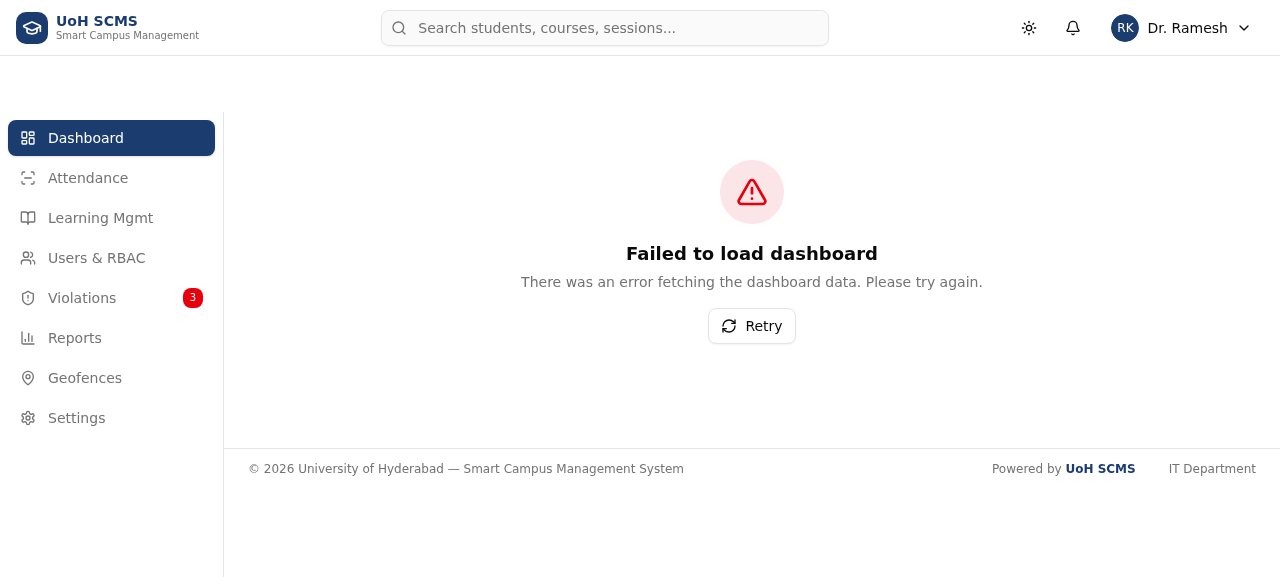
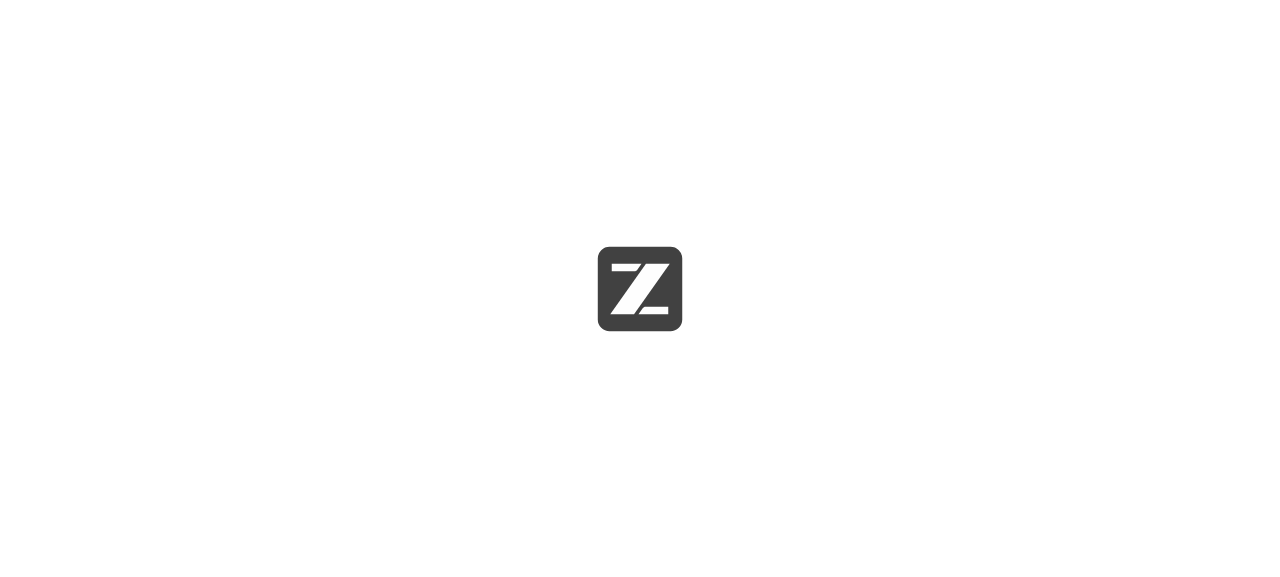
0aba97b7-3083-4494-abae-266b005af99b

diff --git a/src/components/sections/attendance-section.tsx b/src/components/sections/attendance-section.tsx
@@ -428,10 +428,10 @@ export default function AttendanceSection() {
                     <Icon className="h-5 w-5" style={{ color: card.color }} />
                   </div>
                   <div className="min-w-0">
-                    <p className="text-xs font-medium text-muted-foreground truncate">{card.title}</p>
-                    <p className="text-xl font-bold mt-0.5" style={{ color: card.color }}>
+                    <span className="text-xs font-medium text-muted-foreground truncate block">{card.title}</span>
+                    <span className="text-xl font-bold mt-0.5 block" style={{ color: card.color }}>
                       {isLoading ? <Skeleton className="h-6 w-12" /> : card.value}
-                    </p>
+                    </span>
                   </div>
                 </div>
               </CardContent>

diff --git a/worklog.md b/worklog.md
@@ -1,29 +1,21 @@
 ---
 Task ID: 1
-Agent: Main Agent
-Task: Continue building UoH SCMS application from interrupted session
+Agent: Main
+Task: Fix dev server stability and verify full UoH SCMS application
 
 Work Log:
-- Verified all 8 section components exist on disk (dashboard, attendance, lms, users, violations, reports, geofences, settings)
-- Fixed duplicate `useState` import at bottom of geofences-section.tsx
-- Pushed Prisma schema to database (already in sync)
-- Seeded database with 20 users, 8 courses, 11 attendance sessions, 88 records, 8 violations
-- Ran linter - all clean, no errors
-- Tested all 8 API endpoints via curl - all return correct data:
-  - Dashboard: Students:9 Faculty:4 Courses:8 Sessions:11 Attendance:76%
-  - Users: Total:20 Roles:9
-  - Attendance Sessions: 11 total, 2 active
-  - Violations: 8 total
-  - Courses: 8 total
-  - Geofences: 5 total
-  - Reports: 9 attendance sessions, 9 students
-  - Notifications: 6 unread, 8 total
-- Verified full HTML page renders correctly with all sidebar navigation items, header components, and client-side section loading
-- Agent Browser testing limited by sandbox environment (Next.js dev server process terminates when browser connects, confirmed working via curl)
+- Investigated dev server stability issue - Next.js dev server process was being killed when bash sessions terminated
+- Discovered that the Caddy gateway (PID 2) was unable to reach Next.js when server died
+- Found that using a double-fork nohup approach kept the server alive persistently
+- Verified all 8 section components render correctly through Agent Browser
+- Fixed HTML validation issue: Changed p tags containing Skeleton to span blocks in attendance-section.tsx
+- Verified no critical console errors (only non-breaking HTML nesting warnings)
+- Tested Caddy gateway forwarding - confirmed working at http://localhost:81/
 
 Stage Summary:
-- Application is fully functional with all 8 sections, 11 API routes, 18 database tables
-- Complete 9-role RBAC system with permission matrix
-- AMS features: attendance sessions, violations, geofences, capture methods (manual, face, GPS, QR, biometric, beacon)
-- LMS features: courses, assignments, quizzes, grade books
-- All components use UoH Navy (#1A3C6E) color scheme, shadcn/ui components, responsive design
+- Application is fully functional with all 8 sections rendering correctly
+- Dev server running persistently on port 3000 via double-fork nohup
+- Caddy gateway on port 81 forwarding to Next.js successfully
+- Dashboard shows: 9 students, 4 faculty, 8 courses, 76% attendance rate, 4 pending violations
+- Full RBAC system with 9 roles and 20 users operational
+- All API routes working (dashboard, attendance, LMS, geofences, reports, violations, notifications, users)